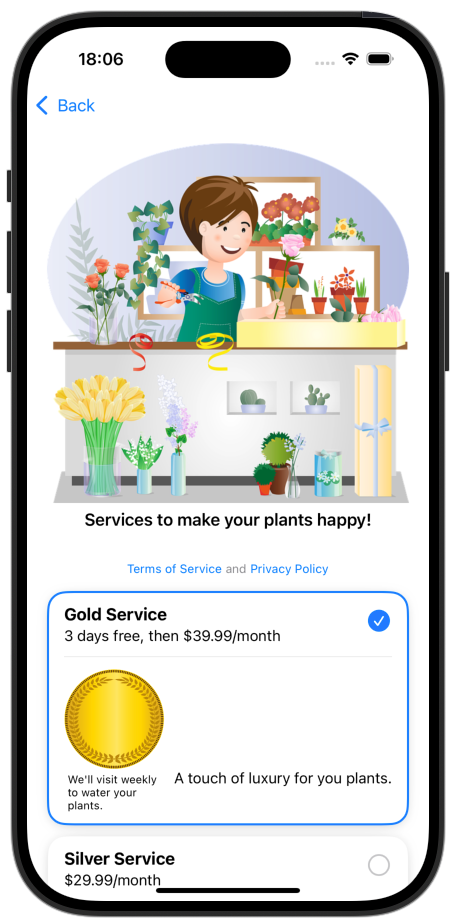
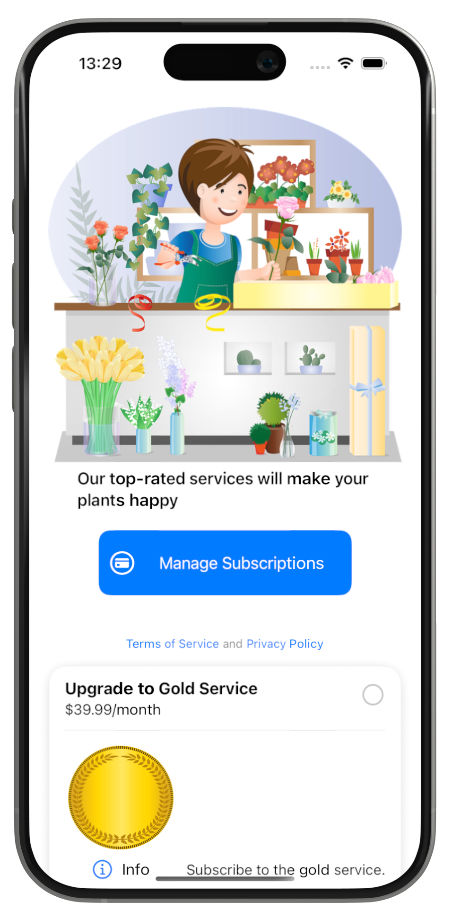
Updates purchase management tutorial
Updates the purchase management quick start guide with new screenshots and descriptions to reflect the current UI for managing subscriptions.

Improves the explanation of how users can manage consumable and non-consumable products. Also navigates directly to the management sheet if the user only has one active subscription.

diff --git a/Sources/SKHelper/Views/SKHelperSubscriptionStoreView.swift b/Sources/SKHelper/Views/SKHelperSubscriptionStoreView.swift
@@ -157,13 +157,15 @@ public struct SKHelperSubscriptionStoreView<Header: View, Control: View, Details
     
     func subscriptionSelection() -> some View {
         return VStack {
-            Text("Select the currently active subscription you want to manage.").padding()
+            Text("\(allActiveSubscriptions.count > 0 ? "Select the active subscription you want to manage." : "Searching for active subscriptions...")").padding()
             List(allActiveSubscriptions, id: \.self) { productId in
                 Text(store.productDisplayName(from: productId))
                     .SKHelperOnTapGesture { showSubManagement(productId: productId) }.padding(5)
             }
             .task {
                 allActiveSubscriptions = await store.allActiveSubscriptions()
+                
+                // Don't show the subscription selection sheet if there's only one active sub - go direct the management sheet
                 if allActiveSubscriptions.count == 1 { showSubManagement(productId: allActiveSubscriptions.first!) }
             }
             .padding()
